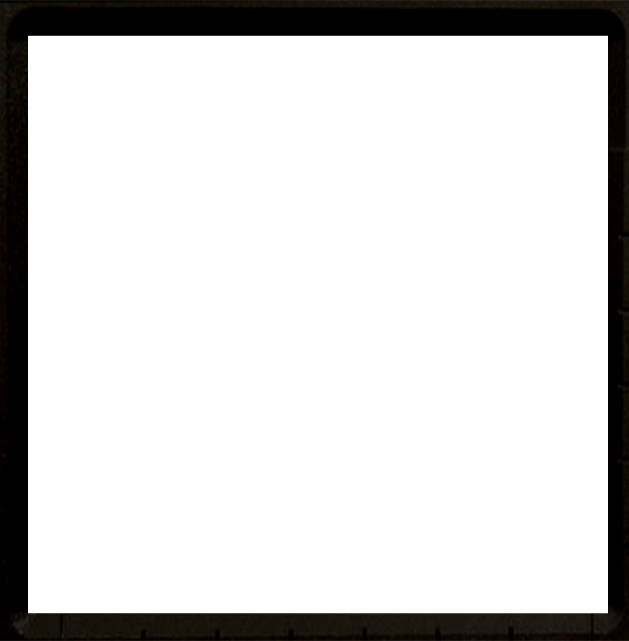
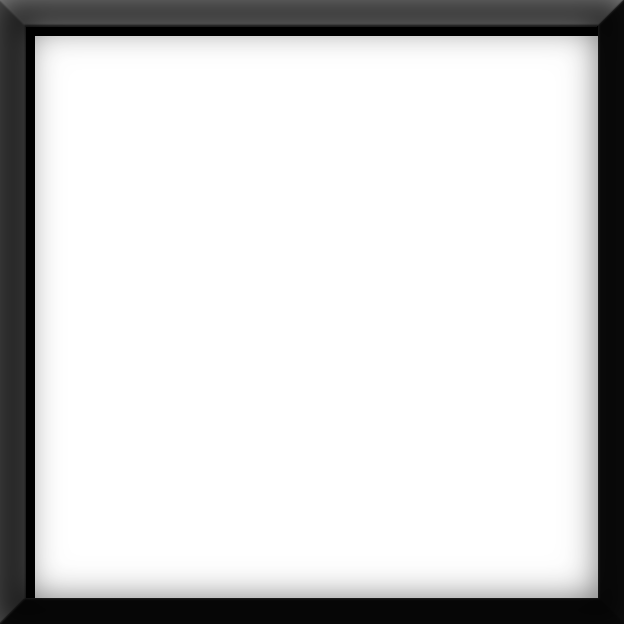
Updates to images, fix for classic mode bug, added new achievement

Changed region(s): [[0.0, 0.0, 1.0, 1.0]]

diff --git a/js/uicanvas.js b/js/uicanvas.js
@@ -49,28 +49,21 @@ UICanvas.prototype.renderUI = function() {
 
   //render the fire control
   this.drawControlImage(1, 96, 0);
-
   //render the water control
   this.drawControlImage(2, 128, 0);
-
   //render the food control
   this.drawControlImage(3, 192, 0);
-
   //render the wall control
   this.drawControlImage(4, 256, 0);
-
   //render the money control
   this.drawControlImage(5, 288, 0);
-
   //render the electricity control
   this.drawControlImage(6, 320, 0);
-
   //render the gears control
   this.drawControlImage(7, 352, 0);
 
   //draw the humanOverlay control
   this.drawControlImage(9, 32, 0);
-
   //draw the robotOverlay control
   this.drawControlImage(10, 64, 0);
 
@@ -85,10 +78,11 @@ UICanvas.prototype.renderUI = function() {
 
   this.drawStatusImage('red', 0, 50, hasAchievement(kaKILL_ALL), 'kill em', 'ALL');
   this.drawStatusImage('green', 50, 50, hasAchievement(kaCLEAN_WIN), 'clean', 'WIN');
+  this.drawStatusImage('red', 100, 50, hasAchievement(kaRULE_BREAKER), 'rule', 'BREAKR');
 };
 
 /**
- * handle clicks within the ui
+ * handle clicks within the ui, only fired from app.js when the game is running (gameInPlay == true)
  * @param xLoc
  * @param yLoc
  */
@@ -243,4 +237,7 @@ UICanvas.prototype.drawButtonImage = function(buttonType, xLoc, yLoc, isOn) {
       this.drawCanvas.drawImage(this.buttonImages, xCopyLoc+50, 0, 50, 50, xLoc, yLoc, 50, 50);
       break;
   }
+
+  //draw the button frame
+  this.drawCanvas.drawImage(this.buttonImages, 400, 0, 50, 50, xLoc, yLoc, 50, 50);
 };

diff --git a/css/main.css b/css/main.css
@@ -171,25 +171,25 @@ a {
 @media -sass-debug-info{filename{font-family:file\:\/\/\/Applications\/MAMP\/htdocs\/robotshumans\/sass\/main\.scss}line{font-family:\00003150}}
 .crt-outer {
   background-image: url(../images/crtouter.png);
-  width: 629px;
-  height: 641px;
+  width: 624px;
+  height: 624px;
   display: block;
   pointer-events: none;
-  opacity: .4;
+  opacity: .2;
 }
 
 @media -sass-debug-info{filename{font-family:file\:\/\/\/Applications\/MAMP\/htdocs\/robotshumans\/sass\/main\.scss}line{font-family:\00003159}}
 #crt-outer1 {
   position: absolute;
-  left: 25px;
-  top: 18px;
+  left: 23px;
+  top: 24px;
 }
 
 @media -sass-debug-info{filename{font-family:file\:\/\/\/Applications\/MAMP\/htdocs\/robotshumans\/sass\/main\.scss}line{font-family:\00003163}}
 #crt-outer2 {
   position: absolute;
-  left: 651px;
-  top: 18px;
+  left: 650px;
+  top: 24px;
 }
 
 @media -sass-debug-info{filename{font-family:file\:\/\/\/Applications\/MAMP\/htdocs\/robotshumans\/sass\/main\.scss}line{font-family:\00003167}}

diff --git a/js/map.js b/js/map.js
@@ -721,12 +721,18 @@ MainMap.prototype.checkAchievements = function(hasWon) {
   if(this.robots.length == 0 && this.humans.length == 0 && !hasAchievement(kaKILL_ALL)) {
     //the player just got the "kill them all"
     getAchievement(kaKILL_ALL);
-    retVal+='You got the KILL THEM ALL achievement<br/>';
+    retVal+='You have received the KILL THEM ALL achievement<br/>';
   }
 
   if(hasWon && this.robots.length == numRobots && !hasAchievement(kaCLEAN_WIN)) {
     getAchievement(kaCLEAN_WIN);
-    retVal+='You got the CLEAN WIN achievement<br/>';
+    retVal+='You have received the CLEAN WIN achievement<br/>';
+  }
+
+  if(this.robots.length == 0 && this.humans.length == numHumans && !(hasAchievement(kaRULE_BREAKER))) {
+    //the player got the "rule breaker" achievement
+    getAchievement(kaRULE_BREAKER);
+    retVal+='You have received the RULE BREAKER achievement<br/>';
   }
 
   return retVal;

diff --git a/js/app.js b/js/app.js
@@ -44,7 +44,7 @@ var numRobots = 4;
 //generic global timeout variable
 var t;
 
-(function ($, window, document, undefined) {
+(function ($, window, document) {
 
   $(window).load(function() {
 
@@ -98,6 +98,7 @@ var t;
       //handle clicks on the UI
       $('#ui-canvas').click(function(e) {
         if(gameInPlay) {
+          //only handle clicks on the ui when the game is running
           gUICanvas.handleClick((e.offsetX || e.clientX - $(e.target).offset().left), (e.offsetY || e.clientY - $(e.target).offset().top));
         }
       });
@@ -277,6 +278,12 @@ function startNewLevel() {
     numHumans++;
     numRobots++;
   }
+
+  if(gameType == 1) {
+    //if we're in "classic" mode, reset the resource allocation
+    setResources(1);
+  }
+
   gCanvas.initGame();
   $('#controls').hide();
   gameInPlay = true;

diff --git a/sass/main.scss b/sass/main.scss
@@ -149,19 +149,19 @@ a {
 
 .crt-outer {
   background-image: url(../images/crtouter.png);
-  width: 629px;
-  height: 641px;
+  width: 624px;
+  height: 624px;
   display: block;
   pointer-events: none;
-  opacity: .4;
+  opacity: .2;
 }
 
 #crt-outer1 {
-  @include screen-pos(25px, 18px);
+  @include screen-pos(23px, 24px);
 }
 
 #crt-outer2 {
-  @include screen-pos(651px, 18px);
+  @include screen-pos(650px, 24px);
 }
 
 #crt1 {

diff --git a/js/hrHelper.js b/js/hrHelper.js
@@ -10,9 +10,10 @@ var kHUMANS_KILLED = 'totalHumans';
 var kROBOTS_KILLED = 'totalRobots';
 var kTOTAL_WINS = 'totalWins';
 var kMAX_LEVEL = 'maxLevel';
-
+//achievement constants
 var kaKILL_ALL = 'killAll';
 var kaCLEAN_WIN = 'cleanWin';
+var kaRULE_BREAKER = 'ruleBreaker';
 
 /**
  * handle the various variables associated with an object movement
